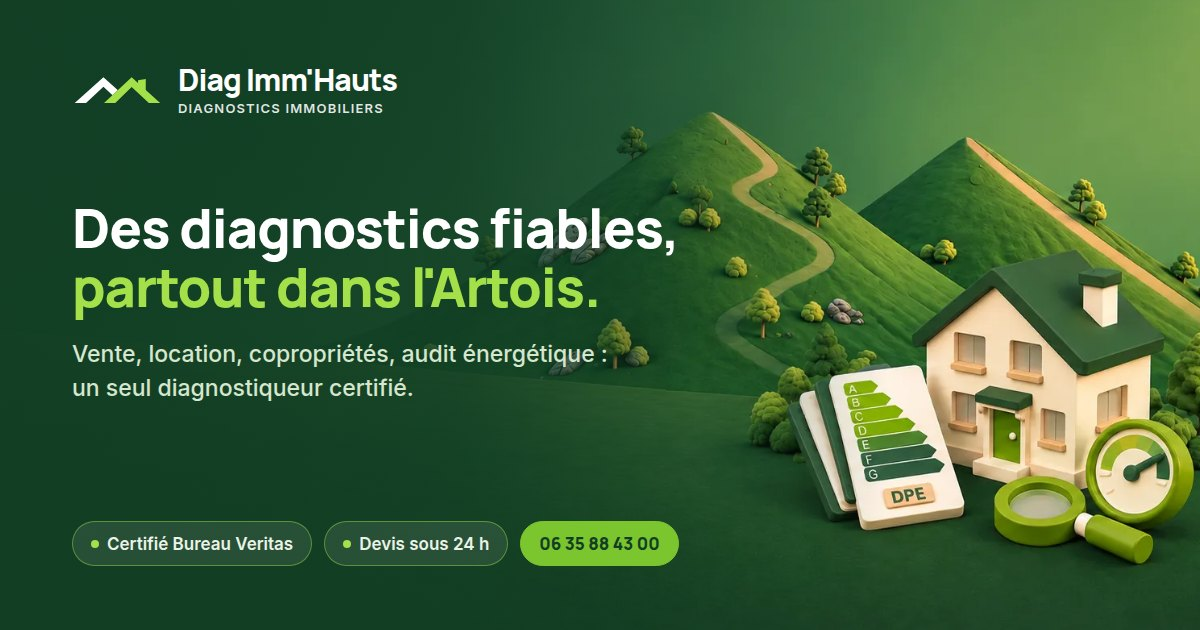
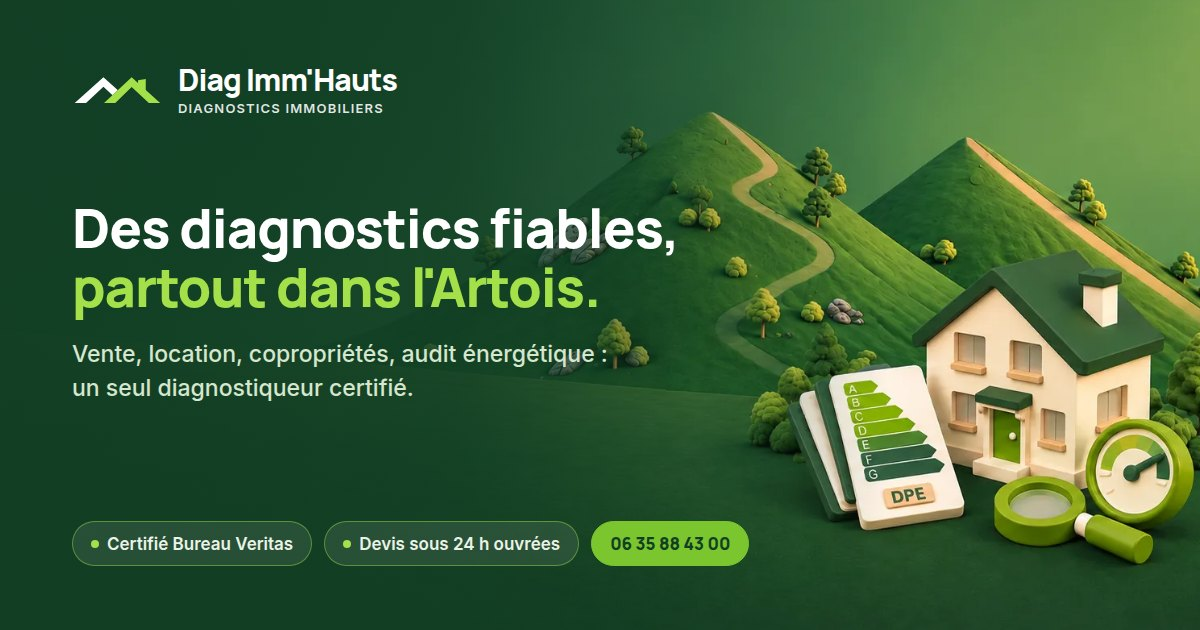
Corrections 1.13 : DTG en diag_dtg, arbitrages levés, image de partage
- Nos diagnostics : la card DTG reprend diag_dtg (règle du jeu diag_* :
  toute vignette de diagnostic, hors heros DPE et Audit), comme le résultat
  DTG du simulateur ; « Accompagnement de parc » garde ill_syndic_ssfond.
- README : arbitrages levés (bouton du rappel, pictos des 4 étapes et card
  DTG de Nos diagnostics : bogues corrigés dans les maquettes 1.13) ; les
  deux adresses e-mail sont voulues (contact@ formulaires et devis,
  bureau@ mentions légales et RGPD).
- Image de partage : « Devis sous 24 h ouvrées » (chiffre arrêté), JPEG
  régénéré.

Claude-Session: https://claude.ai/code/session_011v5mGW6WG9jPLDrEGVsJ4H

Changed region(s): [[0.4008, 0.8143, 0.6475, 0.9048]]

diff --git a/outils/image-partage.html b/outils/image-partage.html
@@ -31,5 +31,5 @@ p{margin-top:22px;font-size:23px;line-height:1.45;font-weight:500;color:#d6e6cf;
 <div><div class="mot">Diag Imm'Hauts</div><div class="sous">Diagnostics immobiliers</div></div></div>
 <h1>Des diagnostics fiables,<br><span>partout dans l'Artois.</span></h1>
 <p>Vente, location, copropriétés, audit énergétique : un seul diagnostiqueur certifié.</p>
-<div class="pastilles"><span class="pastille"><i></i>Certifié Bureau Veritas</span><span class="pastille"><i></i>Devis sous 24&nbsp;h</span><span class="pastille pastille--tel">06 35 88 43 00</span></div>
+<div class="pastilles"><span class="pastille"><i></i>Certifié Bureau Veritas</span><span class="pastille"><i></i>Devis sous 24&nbsp;h ouvrées</span><span class="pastille pastille--tel">06 35 88 43 00</span></div>
 </div></div></body></html>

diff --git a/theme/diag-immhauts/inc/contenus/nos-diagnostics.php b/theme/diag-immhauts/inc/contenus/nos-diagnostics.php
@@ -44,7 +44,7 @@ return array(
 			array( 'mesurage', 'Illimitée*', 'Mesurage Carrez / Boutin', 'Surface privative en copropriété (Carrez) ou surface habitable en location (Boutin).', 'Vente en copropriété · bail d’habitation' ),
 			array( 'assainissement', 'Contrôle SPANC', 'Assainissement', 'Contrôle de l’installation non collective : il est réalisé par le SPANC de votre commune, je vous oriente et j’intègre les autres diagnostics au même devis.', 'Bien non raccordé au tout-à-l’égout' ),
 			array( 'merule', '6 mois', 'Mérule', 'Recherche de mérule et de champignons lignivores dans les bois du bâti.', 'Zone à risque délimitée par arrêté' ),
-			array( 'dtg', '10 ans', 'DTG & DPE collectif', 'Étiquette énergétique de l’immeuble entier et état technique global de la copropriété.', 'Copropriétés d’habitation', 'ill_syndic_ssfond.webp' ),
+			array( 'dtg', '10 ans', 'DTG & DPE collectif', 'Étiquette énergétique de l’immeuble entier et état technique global de la copropriété.', 'Copropriétés d’habitation' ),
 			array( 'audit', '5 ans', 'Audit énergétique', 'Deux scénarios de travaux chiffrés pour sortir le logement des classes énergivores.', 'Vente d’une maison classée E, F ou G' ),
 		),
 		'cta'      => 'De quels diagnostics ai-je besoin ?',

diff --git a/theme/diag-immhauts/inc/contenus/simulateur.php b/theme/diag-immhauts/inc/contenus/simulateur.php
@@ -202,7 +202,6 @@ return array(
 			'titre'    => 'DTG — diagnostic technique global',
 			'validite' => '—',
 			'texte'    => 'Immeuble en monopropriété ou mise en copropriété : le DTG anticipe les travaux et sécurise l’opération.',
-			'illus'    => 'ill_syndic_ssfond.webp', // maquette : pas diag_dtg (voir Arbitrages)
 		),
 		'tertiaire'        => array(
 			'page'     => 'contact',

diff --git a/README.md b/README.md
@@ -105,9 +105,6 @@ Sans ACF Pro, ou tant qu'un réglage n'est pas enregistré, chaque réglage pren
 | Titre des heros de fiche | Formule de la maquette `clamp(30px, 3.1vw, 42px)` conservée (exception déclarée) |
 | Rayons 12 et 22 px de la maquette | Ramenés aux jetons 10 et 26 px (Audit SCSS) |
 | Fond de l'accueil `#E5F2D4` et couleurs du champ « Vérifier ma commune » | Jeton `$vert-brume` ; pastilles oui / limite prises dans la palette (`$pastille-jaune`, `$pastille-orange`) |
-| Card DTG de « Nos diagnostics » | Illustration `ill_syndic_ssfond` de la maquette, pas `diag_dtg` (le jeu v10 ne couvre que heros et cards standard) |
-| Bloc rappel de « Nos diagnostics » | Les boutons ne s'affichent pas dans la maquette (bogue `ctaCallFirst` / `ctaFormFirst`) : règle du README appliquée, formulaire puis appel |
-| Pictos des 4 étapes de « Nos diagnostics » | La maquette pointe vers `uploads/ill_stb_*.png`, absents : le thème sert `img/ill_stb_*.webp` |
 | Bloc rappel de la fiche DPE | Garde ses boutons propres (« obligations ») ; les autres fiches suivent la règle v10 formulaire / appel |
 | Avis clients de l'accueil | Textes provisoires de la maquette, à remplacer par les vrais avis (étape 5, ACF) |
 | Formulaires | Emplacement balisé tant que Fluent Forms n'est pas installé |
@@ -120,7 +117,7 @@ Sans ACF Pro, ou tant qu'un réglage n'est pas enregistré, chaque réglage pren
 | Popup de rappel de Professionnels | Surtitre, titre, intro et formulaire « Compte partenaire » propres à la page (section `popup` de ses contenus) |
 | Étapes de Qui suis-je en déplié et sur téléphone | La maquette n'affiche pas les grands numéros (champ `n` absent de ses données) : numéros conservés, comme sur les fiches |
 | Décor du hero de Qui suis-je en bureau | Cadrage de la maquette (`0% 82%`, `max(130%, 1180px)`), pas celui des autres heros |
-| Adresse e-mail | Deux adresses dans les maquettes : `contact@diagimmhauts.fr` (Contact) et `bureau@diagimmhauts.fr` (Mentions légales) ; chacune reprise telle quelle, **à confirmer par le client** |
+| Adresse e-mail | Deux adresses voulues : `contact@diagimmhauts.fr` pour les formulaires et les devis (Contact), `bureau@diagimmhauts.fr` pour les mentions légales et le RGPD |
 | Mentions « à compléter » (certification, RC Pro, médiateur, mesure d'audience) | Surlignage conservé, teintes dérivées de `--warm` ; informations à fournir par le client |
 | Contenu des deux articles | HTML versionné dans `outils/contenus/articles/`, importé par `wp eval-file outils/importer-articles.php` (bloc « HTML personnalisé » ; liens `{url:…}` résolus à l'import) ; cards de l'index alimentées par des champs `dih_*` ; article épinglé = « à la une » |
 | Permaliens des articles | `/actualites/%postname%/` (réglé par le script d'import) ; « Hello world! » passé en brouillon |
@@ -132,7 +129,7 @@ Sans ACF Pro, ou tant qu'un réglage n'est pas enregistré, chaque réglage pren
 | Bloc « 4 étapes » en `deux-colonnes` | Bureau : deux colonnes au-delà de 1150 px, illustration au-dessus des cards 2 × 2 de 901 à 1150 px (maquette DPE). Déplié et téléphone : rail vertical des deux dispositions, comme l'annonce la page d'options (« même rendu »), et non les cards 2 × 2 de la maquette DPE. Qui suis-je, absente de la liste des pages du réglage, reste en ligne |
 | Colonnes de liens du pied de page (elles varient d'une maquette à l'autre : « Infos & FAQ », « Mes engagements », « Demande de rappel »…) | Un seul pied de page pour les 22 pages (README de passation : `footer.php` commun ; audit SCSS, K5) : celui de l'accueil |
 | Redirections : « 7 » dans le rapport SEO, 8 lignes dans son tableau et dans le README | Les 8 lignes (les deux variantes en `/wp/` comprises) ; l'ancien journal renvoie vers `/actualites/`, comme le README (« journal conservé ») |
-| Image de partage 1200 × 630 (rapport SEO, chantier S3), non fournie | Composée à partir du thème (décor des terrils, logo, accroche de l'accueil, pastilles « Certifié Bureau Veritas », « Devis sous 24 h », téléphone) : `assets/img/partage.jpg`, source `outils/image-partage.html` ; en JPEG et non en WebP, que certaines messageries n'affichent pas en aperçu |
+| Image de partage 1200 × 630 (rapport SEO, chantier S3), non fournie | Composée à partir du thème (décor des terrils, logo, accroche de l'accueil, pastilles « Certifié Bureau Veritas », « Devis sous 24 h ouvrées », téléphone) : `assets/img/partage.jpg`, source `outils/image-partage.html` ; en JPEG et non en WebP, que certaines messageries n'affichent pas en aperçu |
 | Canonique et `og:url` | Adresse du site réel (`home_url`), pas `https://diagimmhauts.fr` en dur : la préprod ne se déclare pas comme la production |
 | Hero `sansBG` en déplié | La maquette n'affiche pas le formulaire dans la carte (`formAucun` réservé au bureau) : formulaire affiché, sinon la carte est vide |
 | Espacements hors échelle des variantes du hero (28, 13, 50, 48 px, rayon 18 px, marge basse −22…−34 px de la barre) | 24, 12, 56, 40 px, rayon 16 px ; la barre de `terrils-barre` annule exactement le rembourrage bas (−24…−40 px) et reste collée au bas |
